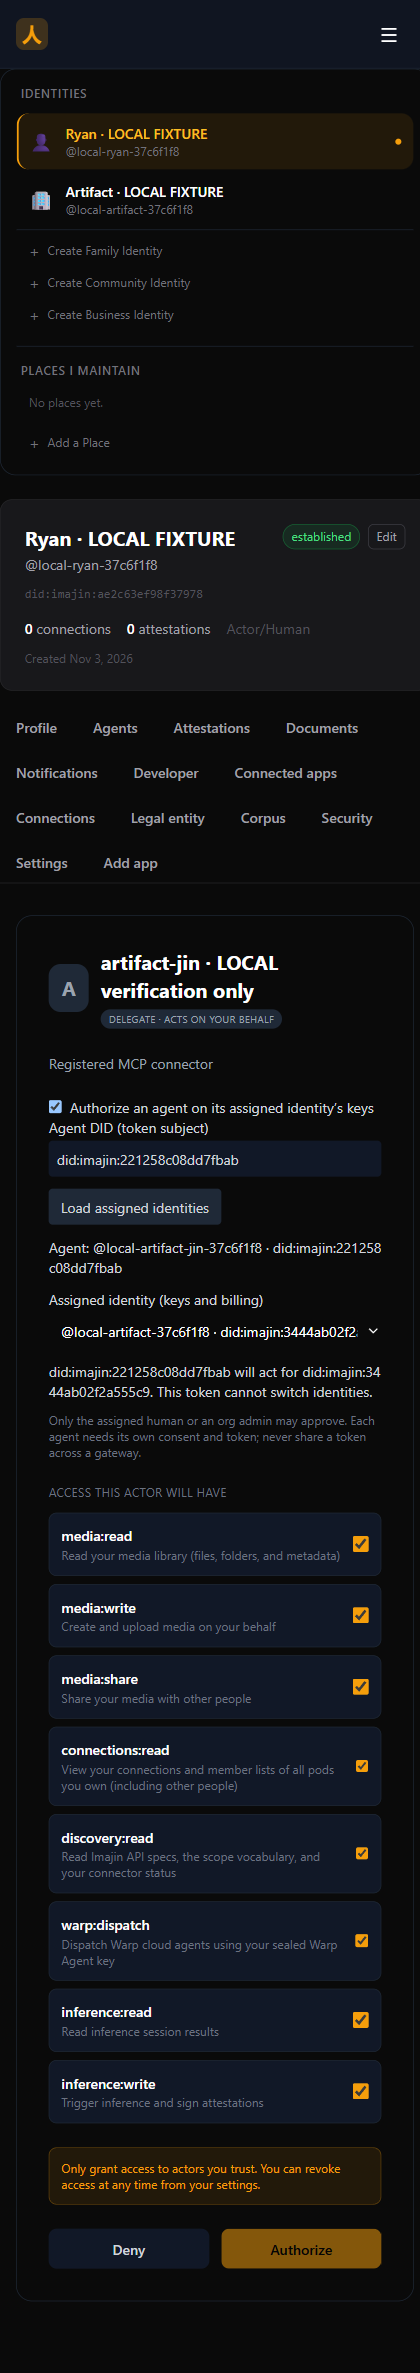
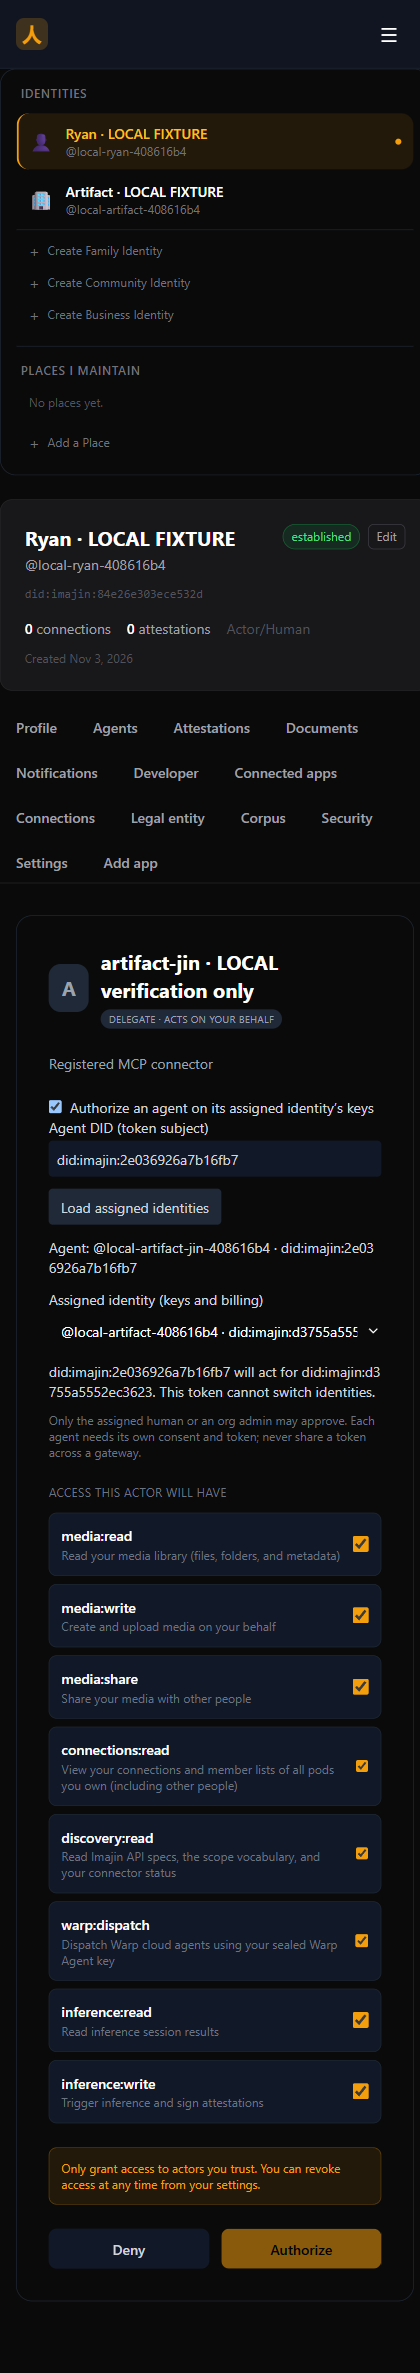
refactor(mcp): address consent accessibility and static analysis findings
Keep smoke failures value-free, parallelize read-only consent choices, and compare token hashes in isolation tests. Refresh both local browser screenshots after semantic accessibility updates.

diff --git a/apps/kernel/app/auth/authorize/agent-consent-binding.tsx b/apps/kernel/app/auth/authorize/agent-consent-binding.tsx
@@ -9,10 +9,10 @@ interface Choices {
 }
 
 /** A placeholder remains selected even when exactly one assignment is available. */
-export function AgentConsentBinding({ initialAgentDid, onChange }: {
+export function AgentConsentBinding({ initialAgentDid, onChange }: Readonly<{
   initialAgentDid: string;
   onChange: (binding: SelectedAgentBinding | null) => void;
-}) {
+}>) {
   const [agentDid, setAgentDid] = useState(initialAgentDid);
   const [choices, setChoices] = useState<Choices | null>(null);
   const [principalDid, setPrincipalDid] = useState('');
@@ -58,7 +58,7 @@ export function AgentConsentBinding({ initialAgentDid, onChange }: {
   return (
     <section className="mb-6 space-y-3 text-sm text-gray-300" aria-label="Agent OAuth binding">
       <label className="block">
-        Agent DID (token subject)
+        <span>Agent DID (token subject)</span>
         <input className="mt-1 w-full rounded bg-gray-900 p-2" value={agentDid}
           onChange={event => changeAgent(event.target.value)} autoComplete="off" />
       </label>
@@ -70,7 +70,7 @@ export function AgentConsentBinding({ initialAgentDid, onChange }: {
       {choices && <>
         <p className="break-all">Agent: {choices.agent.handle ? `@${choices.agent.handle} · ` : ''}{choices.agent.did}</p>
         <label className="block">
-          Assigned identity (keys and billing)
+          <span>Assigned identity (keys and billing)</span>
           <select className="mt-1 w-full rounded bg-gray-900 p-2" value={principalDid}
             onChange={event => {
               const selected = event.target.value;
@@ -84,9 +84,9 @@ export function AgentConsentBinding({ initialAgentDid, onChange }: {
           </select>
         </label>
       </>}
-      {principalDid && <p className="break-all" role="status">
+      {principalDid && <output className="block break-all" aria-live="polite">
         {choices?.agent.did} will act for {principalDid}. This token cannot switch identities.
-      </p>}
+      </output>}
       <p className="text-xs text-gray-500">Only the assigned human or an org admin may approve.
         Each agent needs its own consent and token; never share a token across a gateway.</p>
     </section>

diff --git a/apps/kernel/src/lib/mcp/__tests__/agent-gateway.integration.test.ts b/apps/kernel/src/lib/mcp/__tests__/agent-gateway.integration.test.ts
@@ -36,7 +36,7 @@ import { POST as tokenPost } from '../../../../app/oauth/token/route';
 import { GET as choicesGet } from '../../../../app/oauth/agent-bindings/route';
 import { POST as mcpPost } from '../../../../app/mcp/route';
 import { verifyAppToken, createAppToken } from '@/src/lib/auth/jwt';
-import { pkceChallengeFromVerifier } from '../oauth-config';
+import { hashToken, pkceChallengeFromVerifier } from '../oauth-config';
 import { approveAgentBinding, mcpCredentialContext, mcpOAuthContext, readAgentBinding } from '../agent-binding';
 import { authorizeMemberConnection } from '@/src/lib/kernel/member-connection-gate';
 import { canonicalize, crypto as authCrypto } from '@imajin/auth';
@@ -182,11 +182,11 @@ describe('explicit agent consent and immutable signed OAuth binding', () => {
   it('issues separate tokens and authorization lineages to two agents on the same client', async () => {
     const jin = await granted();
     const bot = await granted(BOT, ORG);
-    expect(jin.access_token === bot.access_token).toBe(false);
-    expect(jin.refresh_token === bot.refresh_token).toBe(false);
+    expect(hashToken(jin.access_token)).not.toBe(hashToken(bot.access_token));
+    expect(hashToken(jin.refresh_token)).not.toBe(hashToken(bot.refresh_token));
     const first = await verifyAppToken(jin.access_token);
     const second = await verifyAppToken(bot.access_token);
-    expect(first!.attestationId === second!.attestationId).toBe(false);
+    expect(first!.attestationId).not.toBe(second!.attestationId);
     expect((await mcpCredentialContext(await context(jin.access_token), 'warp')).ownerDid).toBe(RYAN);
     expect((await mcpCredentialContext(await context(bot.access_token), 'warp')).ownerDid).toBe(ORG);
   });

diff --git a/apps/kernel/src/lib/mcp/agent-binding.ts b/apps/kernel/src/lib/mcp/agent-binding.ts
@@ -66,12 +66,12 @@ export async function agentConsentChoices(agentDid: string, consenterDid: string
   }
   const principals = await listServiceOf(agentDid);
   if (principals.length === 0) throw assignmentRequired();
-  const choices: Array<{ did: string; handle: string | null; name: string | null }> = [];
-  for (const did of principals) {
-    if (!await mayConsent(did, consenterDid)) continue;
+  const candidates = await Promise.all(principals.map(async did => {
+    if (!await mayConsent(did, consenterDid)) return null;
     const identity = await activeIdentity(did);
-    if (identity) choices.push({ did, handle: identity.handle, name: identity.name });
-  }
+    return identity ? { did, handle: identity.handle, name: identity.name } : null;
+  }));
+  const choices = candidates.filter(principal => principal !== null);
   if (choices.length === 0) {
     throw new AgentOAuthError('agent_consent_forbidden', 'Only the assigned human or an org admin can consent on /auth/authorize.');
   }
@@ -130,7 +130,7 @@ export async function oauthAgentBinding(
 async function requireBoundAuthorization(ctx: McpToolContext) {
   if (!ctx.actingFor || !ctx.authorizationId) throw authorizationRequired();
   const binding = await oauthAgentBinding(ctx.authorizationId, ctx.did, ctx.appDid, [...ctx.scopes].join(' '));
-  if (!binding || binding.principalDid !== ctx.actingFor) throw authorizationRequired();
+  if (binding?.principalDid !== ctx.actingFor) throw authorizationRequired();
   return binding;
 }
 

diff --git a/apps/kernel/app/auth/authorize/page.tsx b/apps/kernel/app/auth/authorize/page.tsx
@@ -231,7 +231,7 @@ function AuthorizeForm() {
                 setAgentMode(event.target.checked);
                 setAgentBinding(null);
               }} />
-              Authorize an agent on its assigned identity’s keys
+              <span>Authorize an agent on its assigned identity’s keys</span>
             </label>
             {agentMode && <AgentConsentBinding initialAgentDid={searchParams.get('agent_did') ?? ''}
               onChange={setAgentBinding} />}
